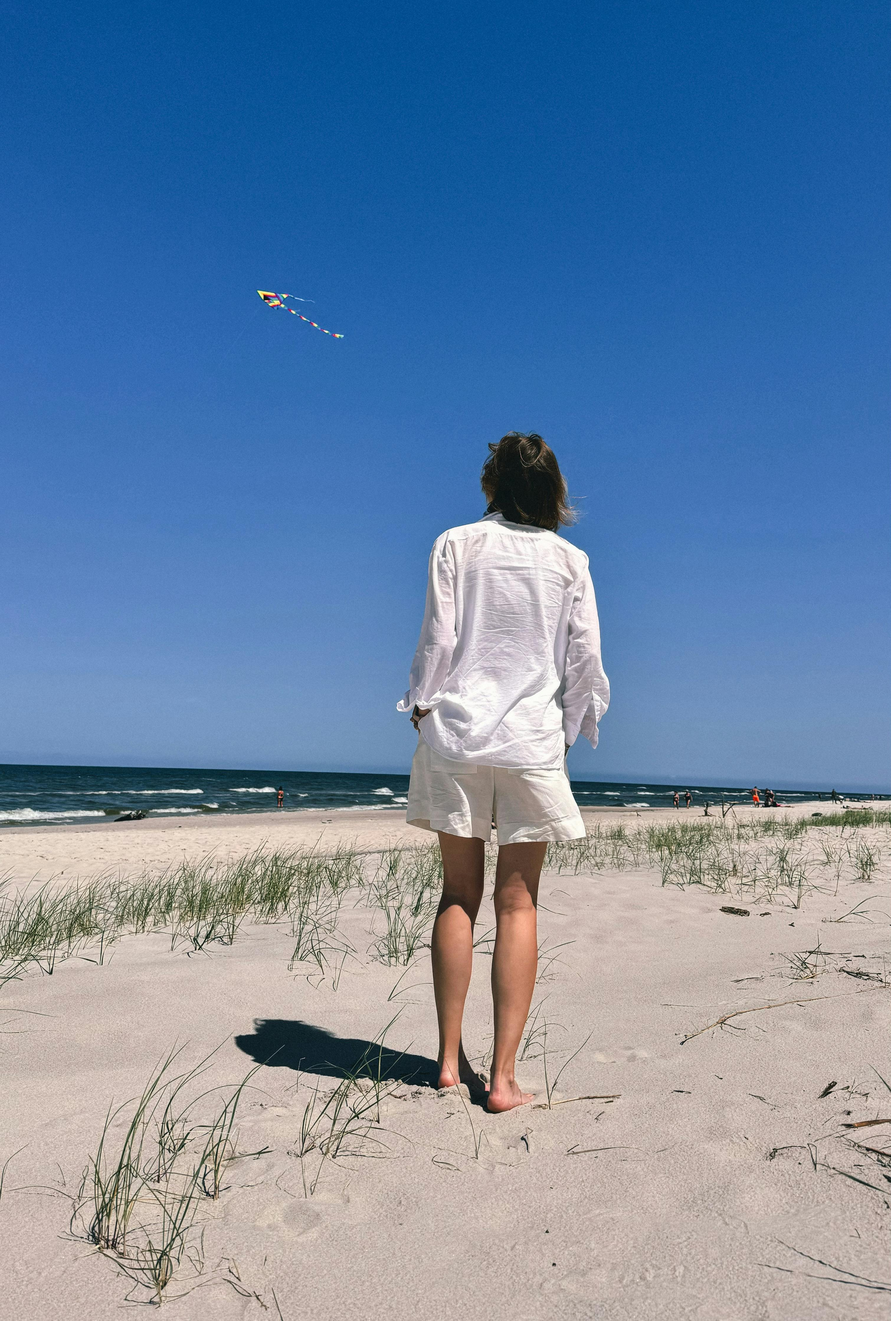
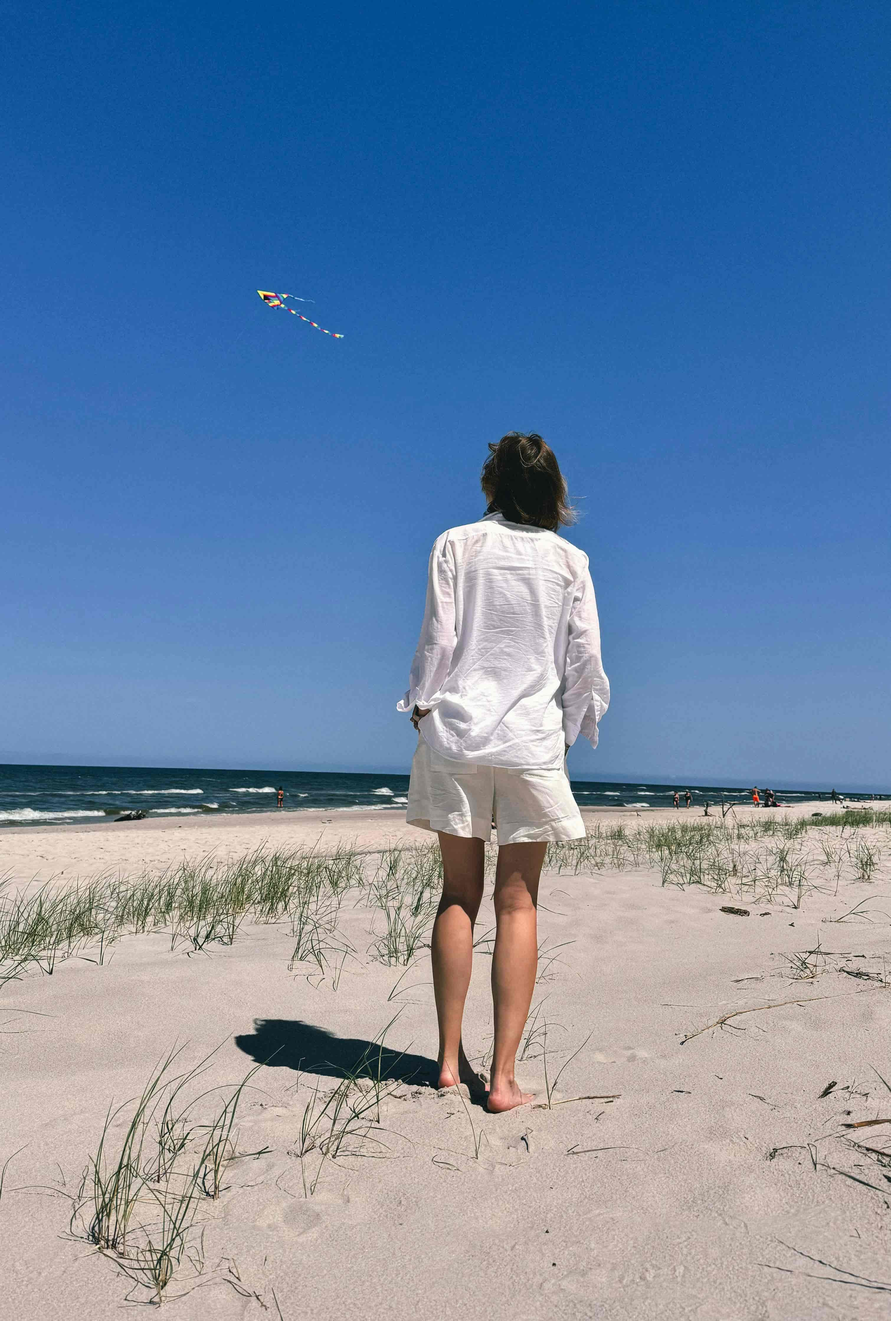
changed all assests to low size

diff --git a/website/src/app/api/queue-status/route.ts b/website/src/app/api/queue-status/route.ts
@@ -22,8 +22,16 @@ interface HourlyUsage {
   expiresAt: Date;
 }
 
-let mongoClient: MongoClient | null = null;
-let db: Db | null = null;
+// Persist client across hot reloads in dev by storing on global
+declare global {
+  // eslint-disable-next-line no-var
+  var __bgremover_mongo_client: MongoClient | undefined;
+  // eslint-disable-next-line no-var
+  var __bgremover_mongo_db: Db | undefined;
+}
+
+let mongoClient: MongoClient | null = (global as any).__bgremover_mongo_client ?? null;
+let db: Db | null = (global as any).__bgremover_mongo_db ?? null;
 
 const HOURLY_LIMIT = 25;
 const HOUR_WINDOW_MS = 60 * 60 * 1000;
@@ -51,22 +59,44 @@ function getSecondsUntilReset(resetAtMs: number, nowMs: number = Date.now()): nu
 }
 
 async function getMongoDB() {
-  if (!mongoClient || !db) {
-    const uri = process.env.NEXT_MONGODB_URI;
-    if (!uri) {
-      throw new Error("NEXT_MONGODB_URI not configured");
-    }
-    if (!mongoClient) {
-      mongoClient = new MongoClient(uri);
-      await mongoClient.connect();
-    }
-
-    db = mongoClient.db("bgremover");
+  const uri = process.env.NEXT_MONGODB_URI;
+  if (!uri) {
+    throw new Error("NEXT_MONGODB_URI not configured");
   }
 
-  if (!db) {
-    throw new Error("Failed to initialize MongoDB connection");
+  const g = global as any;
+
+  // If there's an existing client, verify it's alive with a ping.
+  if (g.__bgremover_mongo_client && g.__bgremover_mongo_db) {
+    try {
+      await g.__bgremover_mongo_client.db("admin").command({ ping: 1 });
+      // assign local vars in case they were null
+      mongoClient = g.__bgremover_mongo_client;
+      db = g.__bgremover_mongo_db;
+      return db;
+    } catch (err) {
+      // existing client appears dead; close and recreate below
+      try {
+        await g.__bgremover_mongo_client.close();
+      } catch {}
+      g.__bgremover_mongo_client = undefined;
+      g.__bgremover_mongo_db = undefined;
+      mongoClient = null;
+      db = null;
+    }
   }
+
+  // Create and connect a new client
+  const client = new MongoClient(uri);
+  await client.connect();
+  const database = client.db("bgremover");
+
+  // persist on global to survive module reloads in dev
+  g.__bgremover_mongo_client = client;
+  g.__bgremover_mongo_db = database;
+
+  mongoClient = client;
+  db = database;
 
   return db;
 }

diff --git a/website/src/lib/demo-smaples.ts b/website/src/lib/demo-smaples.ts
@@ -1,9 +1,9 @@
-import crop from '../../assets/demo/crop.png'
-import resize from '../../assets/demo/resize.png'
-import bgremove from '../../assets/demo/bgremover.png'
-import bgreplace from '../../assets/demo/bgreplace.png'
-import bgblur from '../../assets/demo/bgblur.png'
-import adjust from '../../assets/demo/adjust.png'
+import crop from '../../assets/demo/crop.jpg'
+import resize from '../../assets/demo/resize.jpg'
+import bgremove from '../../assets/demo/bgremover.jpg'
+import bgreplace from '../../assets/demo/bgreplace.jpg'
+import bgblur from '../../assets/demo/bgblur.jpg'
+import adjust from '../../assets/demo/adjust.jpg'
 
 export {
   crop,

diff --git a/website/src/app/page.tsx b/website/src/app/page.tsx
@@ -356,7 +356,6 @@ export default function Home() {
                   src={mainsample[1].image}
                   alt="Photo Shot"
                   fill
-                  sizes="160px"
                   className="object-cover"
                   placeholder="blur"
                 />
@@ -372,7 +371,6 @@ export default function Home() {
                       src={sample.image}
                       alt={`${sample.label} preview`}
                       fill
-                      sizes="64px"
                       className="object-cover"
                       placeholder="blur"
                     />

diff --git a/website/src/lib/stock-samples.ts b/website/src/lib/stock-samples.ts
@@ -23,10 +23,10 @@ export interface StockSample {
 
 export const stockSamples: StockSample[] = [
   {
-    id: "african-monkey",
-    label: "African Monkey",
+    id: "lechwe",
+    label: "Lechwe",
     description: "Fine edges",
-    fileName: "sample-african-monkey.jpg",
+    fileName: "sample-lechwe.jpg",
     image: st1,
   },
   {
